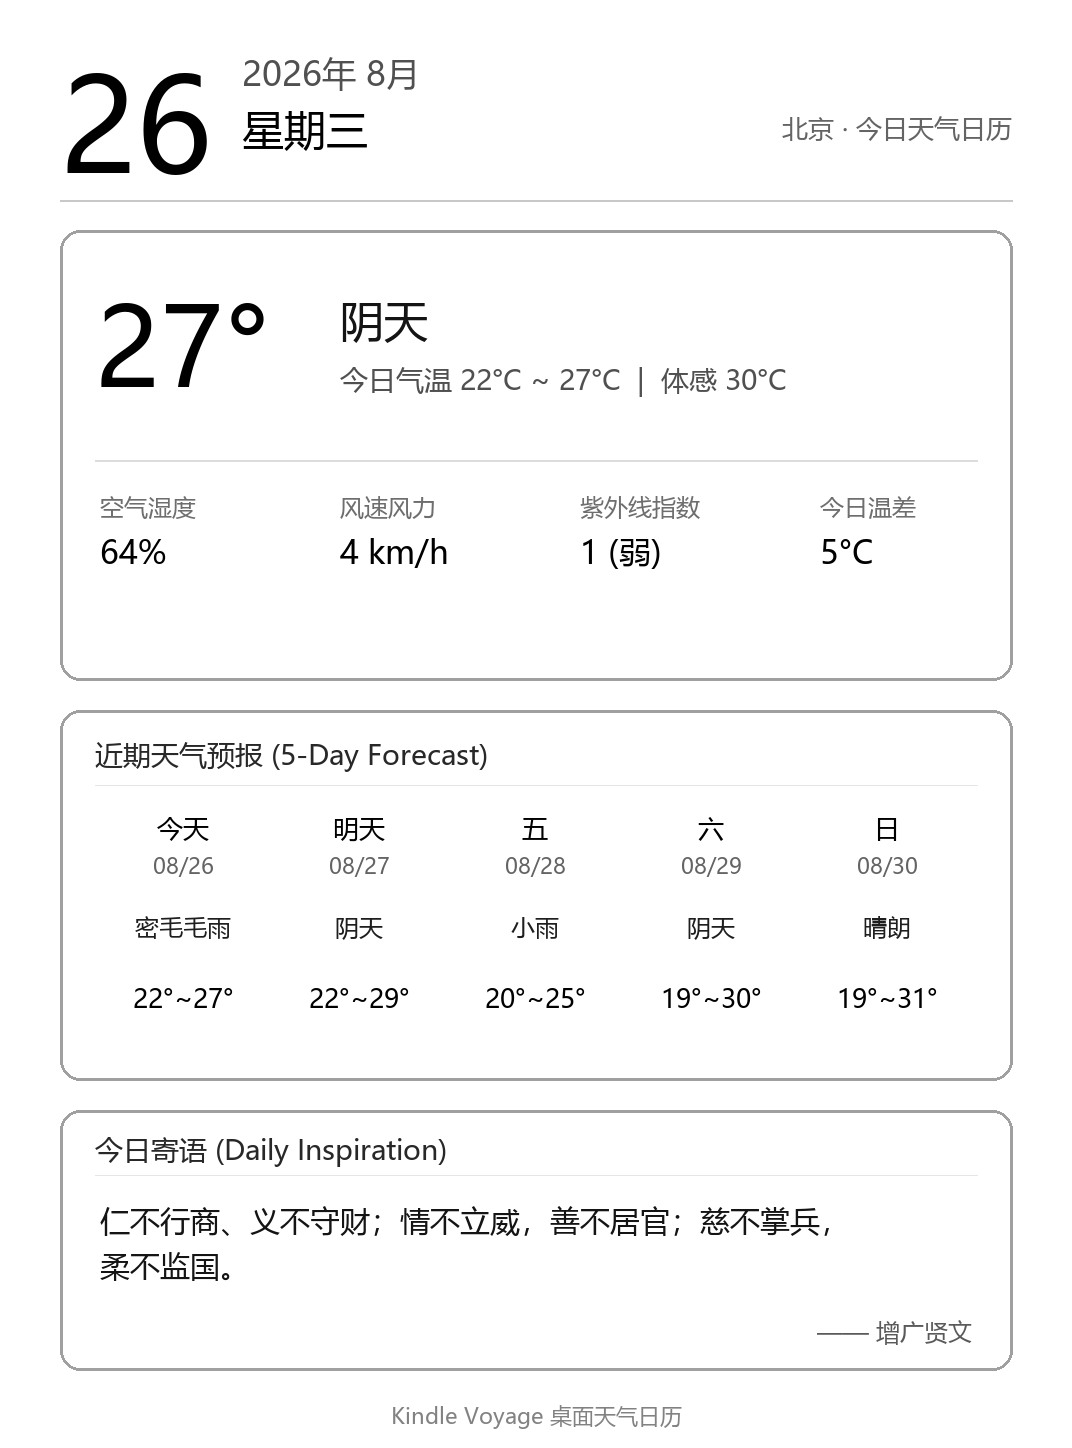
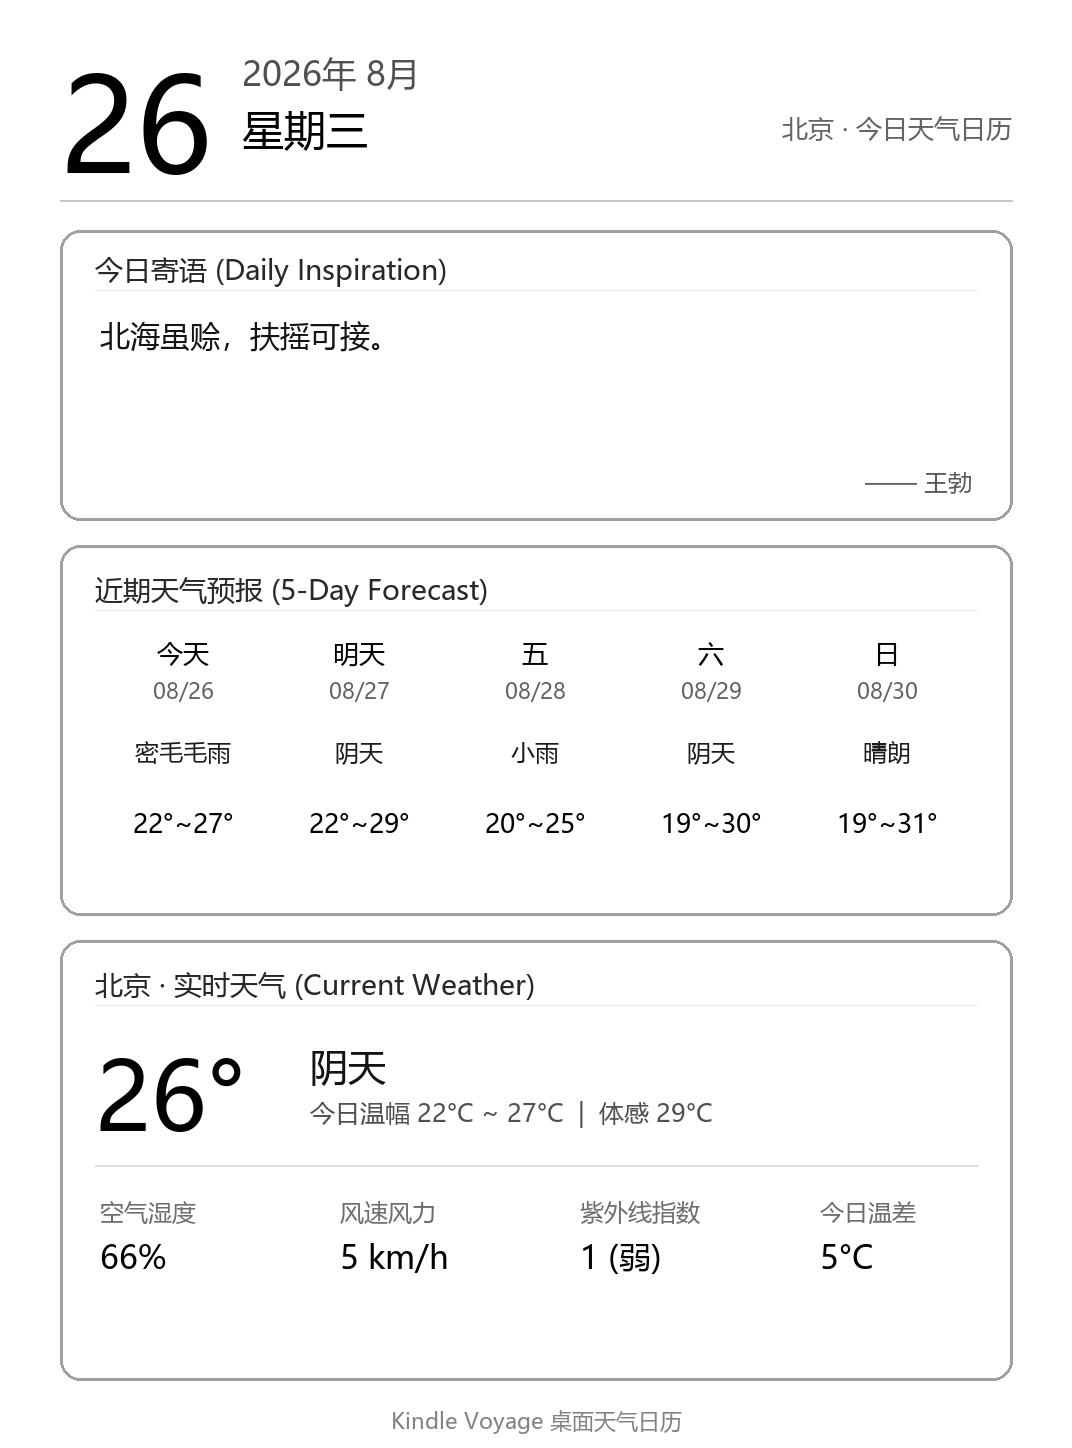
Layout update: Move Daily Inspiration to top and Current Weather to bottom

diff --git a/app.py b/app.py
@@ -112,44 +112,37 @@ def generate_image_bytes():
     
     draw.line([(60, 200), (WIDTH - 60, 200)], fill=200, width=2)
 
-    # --- 2. CURRENT WEATHER CARD ---
-    draw_rounded_card(draw, [60, 230, WIDTH - 60, 680], radius=20, outline=160, fill=255, width=3)
-    if weather and 'current' in weather:
-        curr = weather['current']
-        daily = weather['daily']
-        temp = round(curr.get('temperature_2m', 0))
-        feels_like = round(curr.get('apparent_temperature', temp))
-        humidity = curr.get('relative_humidity_2m', 0)
-        wind_speed = round(curr.get('wind_speed_10m', 0))
-        w_desc = WEATHER_CODES.get(curr.get('weather_code', 0), "多云")
+    # --- 2. CARD 1: DAILY INSPIRATION (今日寄语 - 移至顶部) ---
+    draw_rounded_card(draw, [60, 230, WIDTH - 60, 520], radius=20, outline=160, fill=255, width=3)
+    draw.text((95, 250), "今日寄语 (Daily Inspiration)", font=get_font(28), fill=40)
+    draw.line([(95, 290), (WIDTH - 95, 290)], fill=230, width=1)
+    
+    words = quote_text
+    lines = []
+    line = ""
+    for char in words:
+        if len(line) >= 26:
+            lines.append(line)
+            line = char
+        else:
+            line += char
+    if line:
+        lines.append(line)
         
-        max_today = round(daily['temperature_2m_max'][0])
-        min_today = round(daily['temperature_2m_min'][0])
-        uv_today = round(daily.get('uv_index_max', [0])[0])
+    y_text = 315
+    for l in lines[:3]:
+        draw.text((100, y_text), l, font=get_font(30), fill=20)
+        y_text += 44
         
-        draw.text((95, 270), f"{temp}°", font=get_font(110), fill=0)
-        draw.text((340, 290), f"{w_desc}", font=get_font(44), fill=20)
-        draw.text((340, 360), f"今日气温 {min_today}°C ~ {max_today}°C  |  体感 {feels_like}°C", font=get_font(28), fill=80)
-        
-        draw.line([(95, 460), (WIDTH - 95, 460)], fill=220, width=2)
-        
-        draw.text((100, 490), "空气湿度", font=get_font(24), fill=110)
-        draw.text((100, 530), f"{humidity}%", font=get_font(32), fill=0)
-        
-        draw.text((340, 490), "风速风力", font=get_font(24), fill=110)
-        draw.text((340, 530), f"{wind_speed} km/h", font=get_font(32), fill=0)
-        
-        draw.text((580, 490), "紫外线指数", font=get_font(24), fill=110)
-        uv_desc = "弱" if uv_today <= 2 else ("中等" if uv_today <= 5 else "较强")
-        draw.text((580, 530), f"{uv_today} ({uv_desc})", font=get_font(32), fill=0)
-        
-        draw.text((820, 490), "今日温差", font=get_font(24), fill=110)
-        draw.text((820, 530), f"{max_today - min_today}°C", font=get_font(32), fill=0)
+    if quote_author:
+        author_str = f"—— {quote_author}"
+        bbox = draw.textbbox((0, 0), author_str, font=get_font(24))
+        draw.text((WIDTH - 100 - (bbox[2] - bbox[0]), 465), author_str, font=get_font(24), fill=90)
 
-    # --- 3. 5-DAY FORECAST CARD ---
-    draw_rounded_card(draw, [60, 710, WIDTH - 60, 1080], radius=20, outline=160, fill=255, width=3)
-    draw.text((95, 735), "近期天气预报 (5-Day Forecast)", font=get_font(28), fill=40)
-    draw.line([(95, 785), (WIDTH - 95, 785)], fill=230, width=1)
+    # --- 3. CARD 2: 5-DAY FORECAST (近期预报 - 中间) ---
+    draw_rounded_card(draw, [60, 545, WIDTH - 60, 915], radius=20, outline=160, fill=255, width=3)
+    draw.text((95, 570), "近期天气预报 (5-Day Forecast)", font=get_font(28), fill=40)
+    draw.line([(95, 610), (WIDTH - 95, 610)], fill=230, width=1)
     
     if weather and 'daily' in weather:
         daily = weather['daily']
@@ -163,50 +156,63 @@ def generate_image_bytes():
             x_center = 95 + i * col_width + col_width // 2
             
             bbox = draw.textbbox((0, 0), day_name, font=get_font(26))
-            draw.text((x_center - (bbox[2]-bbox[0])//2, 810), day_name, font=get_font(26), fill=0)
+            draw.text((x_center - (bbox[2]-bbox[0])//2, 635), day_name, font=get_font(26), fill=0)
             
             d_str = d_date.strftime("%m/%d")
             bbox = draw.textbbox((0, 0), d_str, font=get_font(22))
-            draw.text((x_center - (bbox[2]-bbox[0])//2, 850), d_str, font=get_font(22), fill=100)
+            draw.text((x_center - (bbox[2]-bbox[0])//2, 675), d_str, font=get_font(22), fill=100)
             
             bbox = draw.textbbox((0, 0), desc, font=get_font(24))
-            draw.text((x_center - (bbox[2]-bbox[0])//2, 910), desc, font=get_font(24), fill=30)
+            draw.text((x_center - (bbox[2]-bbox[0])//2, 735), desc, font=get_font(24), fill=30)
             
             t_str = f"{t_min}°~{t_max}°"
             bbox = draw.textbbox((0, 0), t_str, font=get_font(26))
-            draw.text((x_center - (bbox[2]-bbox[0])//2, 980), t_str, font=get_font(26), fill=0)
+            draw.text((x_center - (bbox[2]-bbox[0])//2, 805), t_str, font=get_font(26), fill=0)
 
-    # --- 4. DAILY QUOTE CARD ---
-    draw_rounded_card(draw, [60, 1110, WIDTH - 60, 1370], radius=20, outline=160, fill=255, width=3)
-    draw.text((95, 1130), "今日寄语 (Daily Inspiration)", font=get_font(28), fill=40)
-    draw.line([(95, 1175), (WIDTH - 95, 1175)], fill=230, width=1)
+    # --- 4. CARD 3: TODAY WEATHER (实时天气 - 移至底部) ---
+    draw_rounded_card(draw, [60, 940, WIDTH - 60, 1380], radius=20, outline=160, fill=255, width=3)
+    draw.text((95, 965), f"{CITY_NAME} · 实时天气 (Current Weather)", font=get_font(28), fill=40)
+    draw.line([(95, 1005), (WIDTH - 95, 1005)], fill=230, width=1)
     
-    words = quote_text
-    lines = []
-    line = ""
-    for char in words:
-        if len(line) >= 25:
-            lines.append(line)
-            line = char
-        else:
-            line += char
-    if line:
-        lines.append(line)
+    if weather and 'current' in weather:
+        curr = weather['current']
+        daily = weather['daily']
+        temp = round(curr.get('temperature_2m', 0))
+        feels_like = round(curr.get('apparent_temperature', temp))
+        humidity = curr.get('relative_humidity_2m', 0)
+        wind_speed = round(curr.get('wind_speed_10m', 0))
+        w_desc = WEATHER_CODES.get(curr.get('weather_code', 0), "多云")
         
-    y_text = 1200
-    for l in lines[:3]:
-        draw.text((100, y_text), l, font=get_font(30), fill=20)
-        y_text += 45
+        max_today = round(daily['temperature_2m_max'][0])
+        min_today = round(daily['temperature_2m_min'][0])
+        uv_today = round(daily.get('uv_index_max', [0])[0])
         
-    if quote_author:
-        author_str = f"—— {quote_author}"
-        bbox = draw.textbbox((0, 0), author_str, font=get_font(24))
-        draw.text((WIDTH - 100 - (bbox[2] - bbox[0]), 1315), author_str, font=get_font(24), fill=90)
+        # Left side: Big temp & condition
+        draw.text((95, 1030), f"{temp}°", font=get_font(95), fill=0)
+        draw.text((310, 1040), f"{w_desc}", font=get_font(38), fill=20)
+        draw.text((310, 1095), f"今日温幅 {min_today}°C ~ {max_today}°C  |  体感 {feels_like}°C", font=get_font(25), fill=80)
+        
+        # Divider line
+        draw.line([(95, 1165), (WIDTH - 95, 1165)], fill=220, width=2)
+        
+        # Grid details
+        draw.text((100, 1195), "空气湿度", font=get_font(24), fill=110)
+        draw.text((100, 1235), f"{humidity}%", font=get_font(32), fill=0)
+        
+        draw.text((340, 1195), "风速风力", font=get_font(24), fill=110)
+        draw.text((340, 1235), f"{wind_speed} km/h", font=get_font(32), fill=0)
+        
+        draw.text((580, 1195), "紫外线指数", font=get_font(24), fill=110)
+        uv_desc = "弱" if uv_today <= 2 else ("中等" if uv_today <= 5 else "较强")
+        draw.text((580, 1235), f"{uv_today} ({uv_desc})", font=get_font(32), fill=0)
+        
+        draw.text((820, 1195), "今日温差", font=get_font(24), fill=110)
+        draw.text((820, 1235), f"{max_today - min_today}°C", font=get_font(32), fill=0)
 
     # --- 5. FOOTER ---
     footer_text = "Kindle Voyage 桌面天气日历"
     bbox = draw.textbbox((0, 0), footer_text, font=get_font(22))
-    draw.text((WIDTH // 2 - (bbox[2]-bbox[0])//2, 1400), footer_text, font=get_font(22), fill=130)
+    draw.text((WIDTH // 2 - (bbox[2]-bbox[0])//2, 1405), footer_text, font=get_font(22), fill=130)
 
     buf = io.BytesIO()
     img.save(buf, format="PNG")
@@ -215,4 +221,4 @@ def generate_image_bytes():
 if __name__ == "__main__":
     with open("dashboard.png", "wb") as f:
         f.write(generate_image_bytes())
-    print("Generated big date dashboard.png successfully!")
+    print("Swapped cards and generated dashboard.png successfully!")
